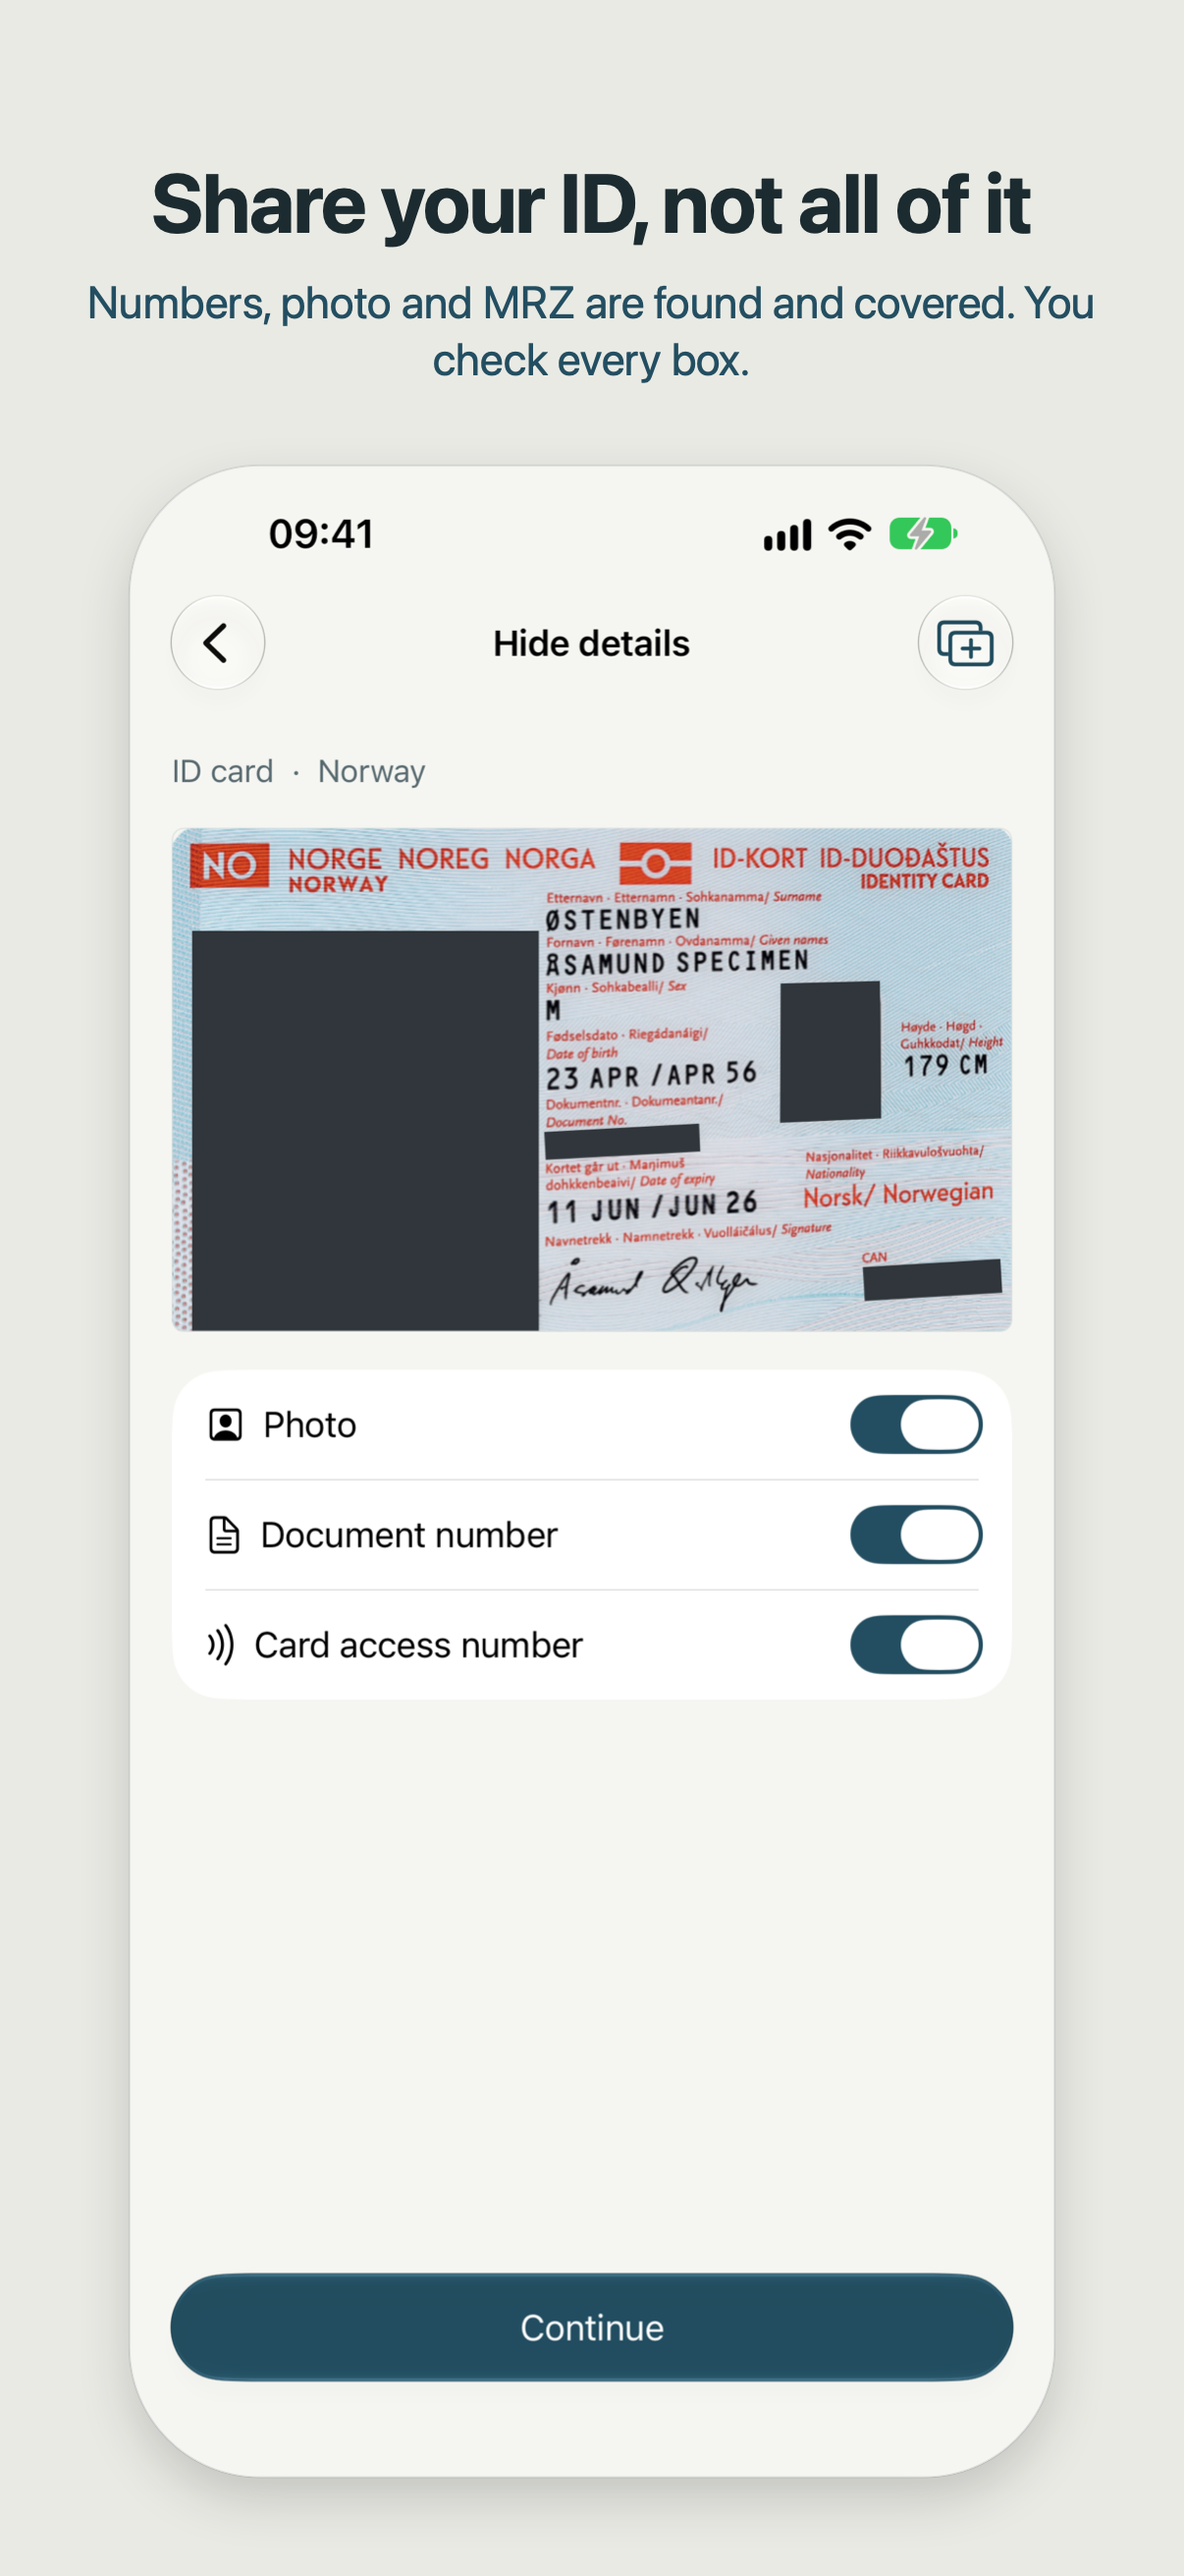
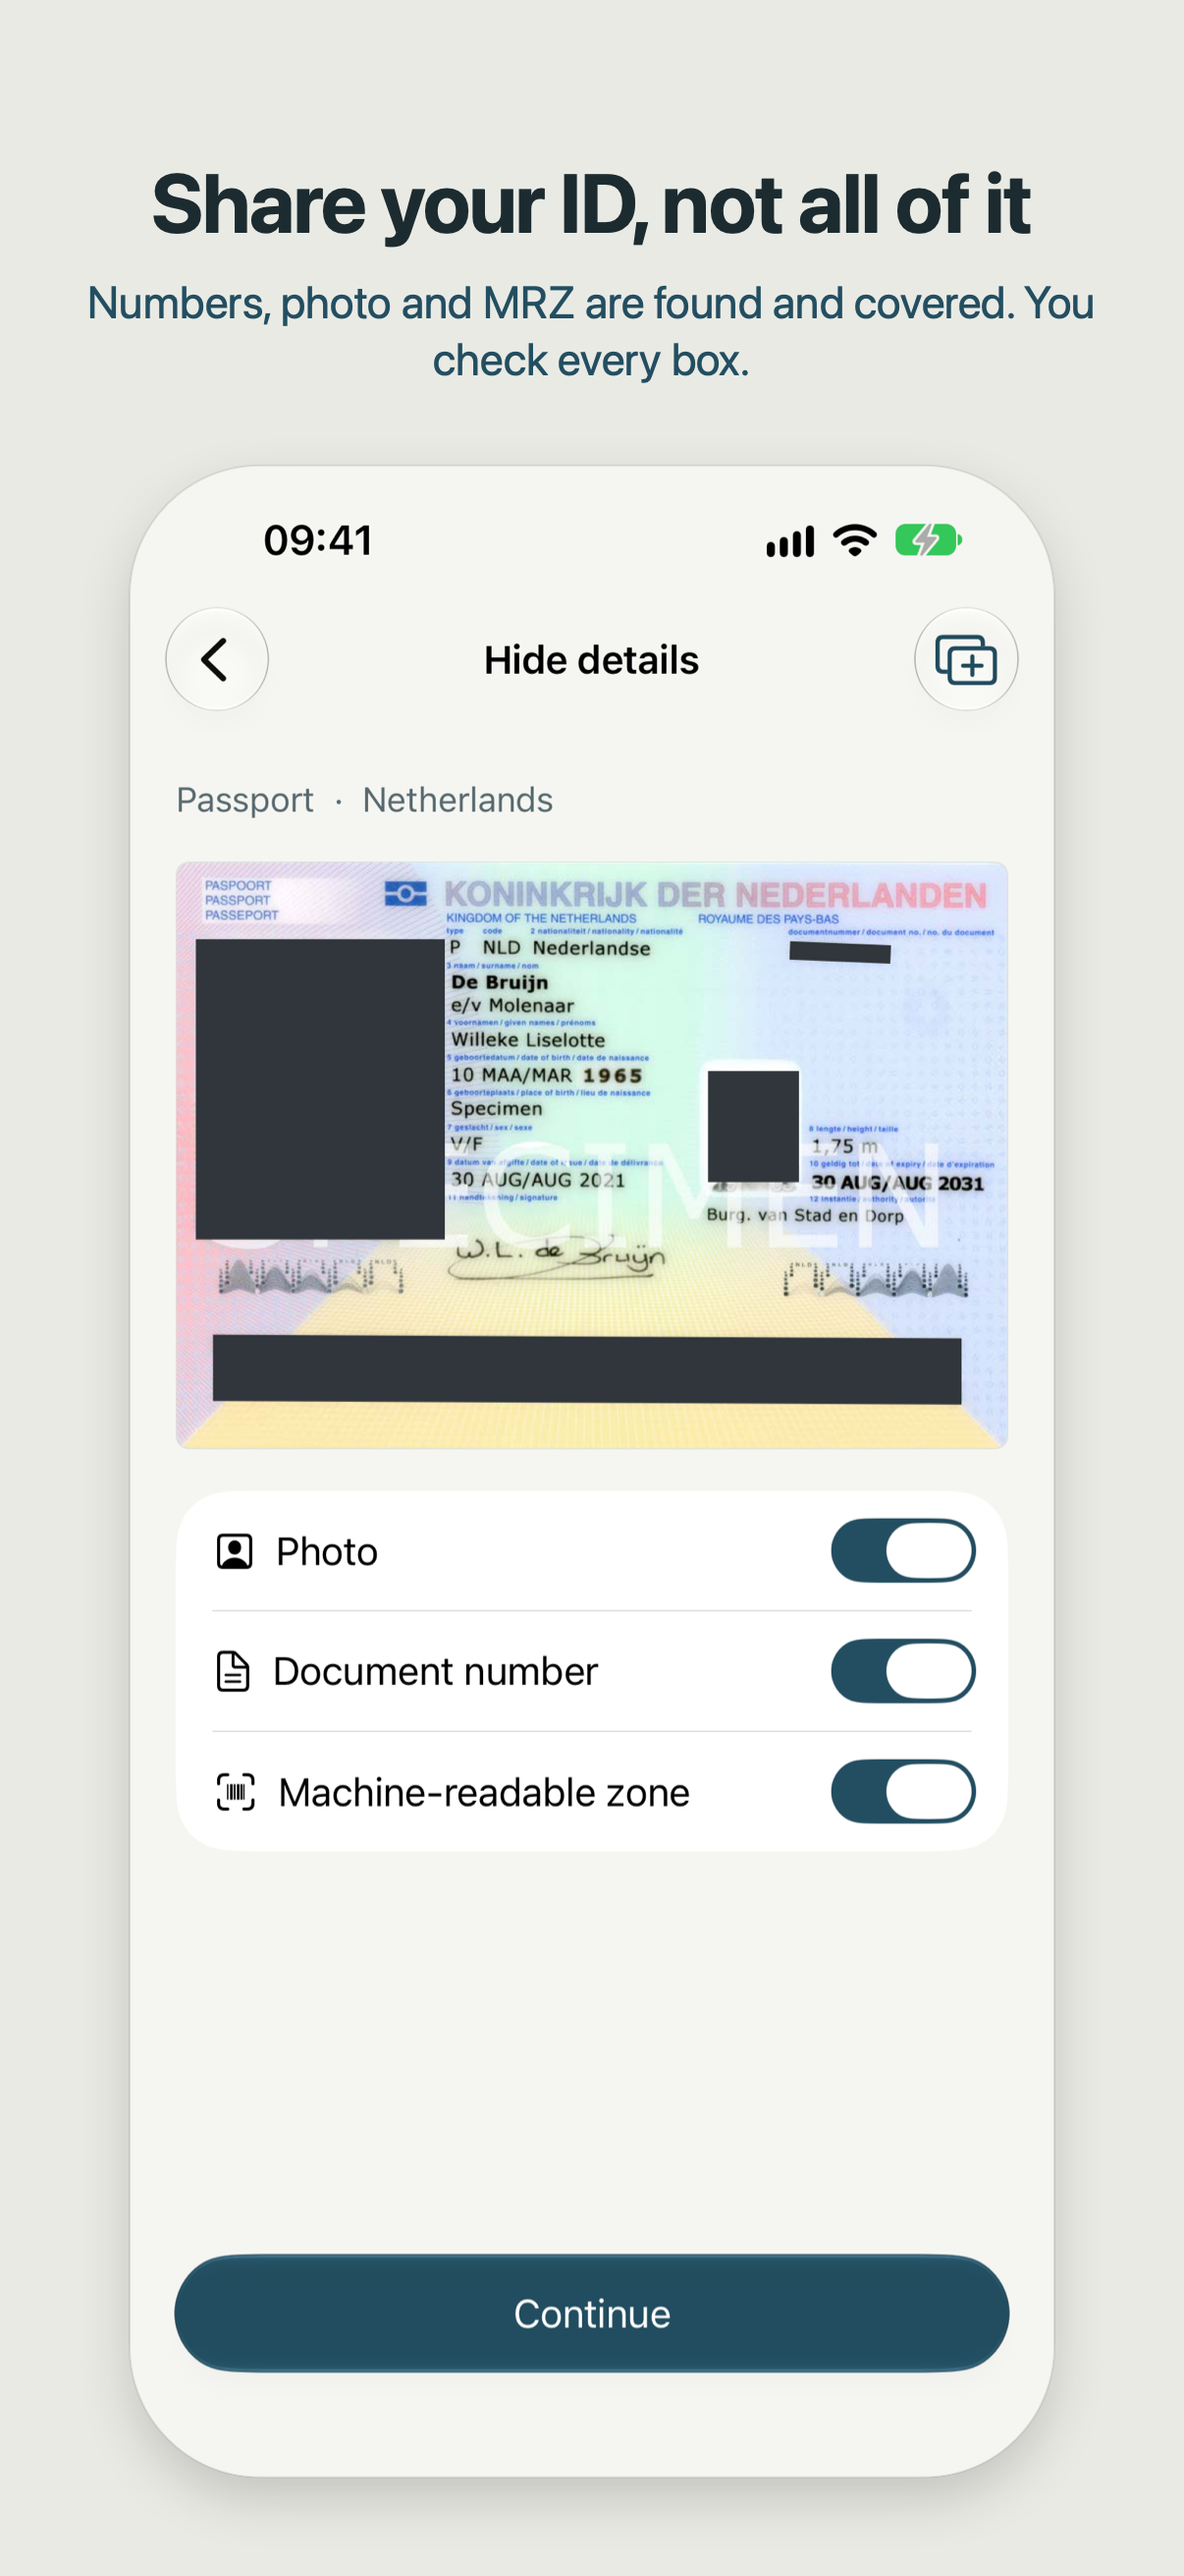
App Store screenshots for 1.1.0 from the app with current specimens
Six 1206x2622 screens captured on the Simulator: the Dutch 2021 passport
unaltered with level masks, the watermarked copy, a bank statement, a
pack, the Pro sheet and the Documents page.

diff --git a/docs/APP_STORE.md b/docs/APP_STORE.md
@@ -176,6 +176,17 @@ MaskCopy is free for identity documents. MaskCopy Pro is an optional in-app purc
 • More documents from the United States and Canada
 • A short tour of what MaskCopy covers
 
+**Screenshots (1.1.0)**: six 1206 × 2622 opaque PNGs in [appstore/screenshots/en](appstore/screenshots/en), replacing the 1.0.0 set. Captured on the iPhone 18 Pro Simulator by `StoreShotUITests` in the private repository (`TEST_RUNNER_MASKCOPY_STORESHOTS=<folder> xcodebuild test … -only-testing:MaskeUITests/StoreShotUITests`, status bar overridden to 9:41), then `scripts/storeshot.swift` for the headline. Screens 1–2 use the Dutch 2021 passport specimen (RvIG), shown unaltered; the Simulator's masks on it are complete level rectangles with no hand edits. Screens 3–4 use synthetic bank statements and payslips.
+
+| File | Headline | Subline |
+|---|---|---|
+| 1-hide.png | Share your ID, not all of it | Numbers, photo and MRZ are found and covered. You check every box. |
+| 2-copy.png | A copy for one recipient | Who it's for, why and when, written across it. |
+| 3-statement.png | Bank statements too | Transactions hidden, salary kept. With MaskCopy Pro. |
+| 4-pack.png | One PDF for the whole application | Passport, payslips and statements, with a checklist. Pro. |
+| 5-pro.png | MaskCopy Pro | One purchase, shared with your family. |
+| 6-documents.png | 30 countries | Passports, ID cards, residence permits and driving licences. |
+
 **In-app purchase**: add MaskCopy Pro to the version page before submitting (the first in-app purchase must go with a version). Its App Store Connect details are in the private repository.
 
 ### English (U.K.)
